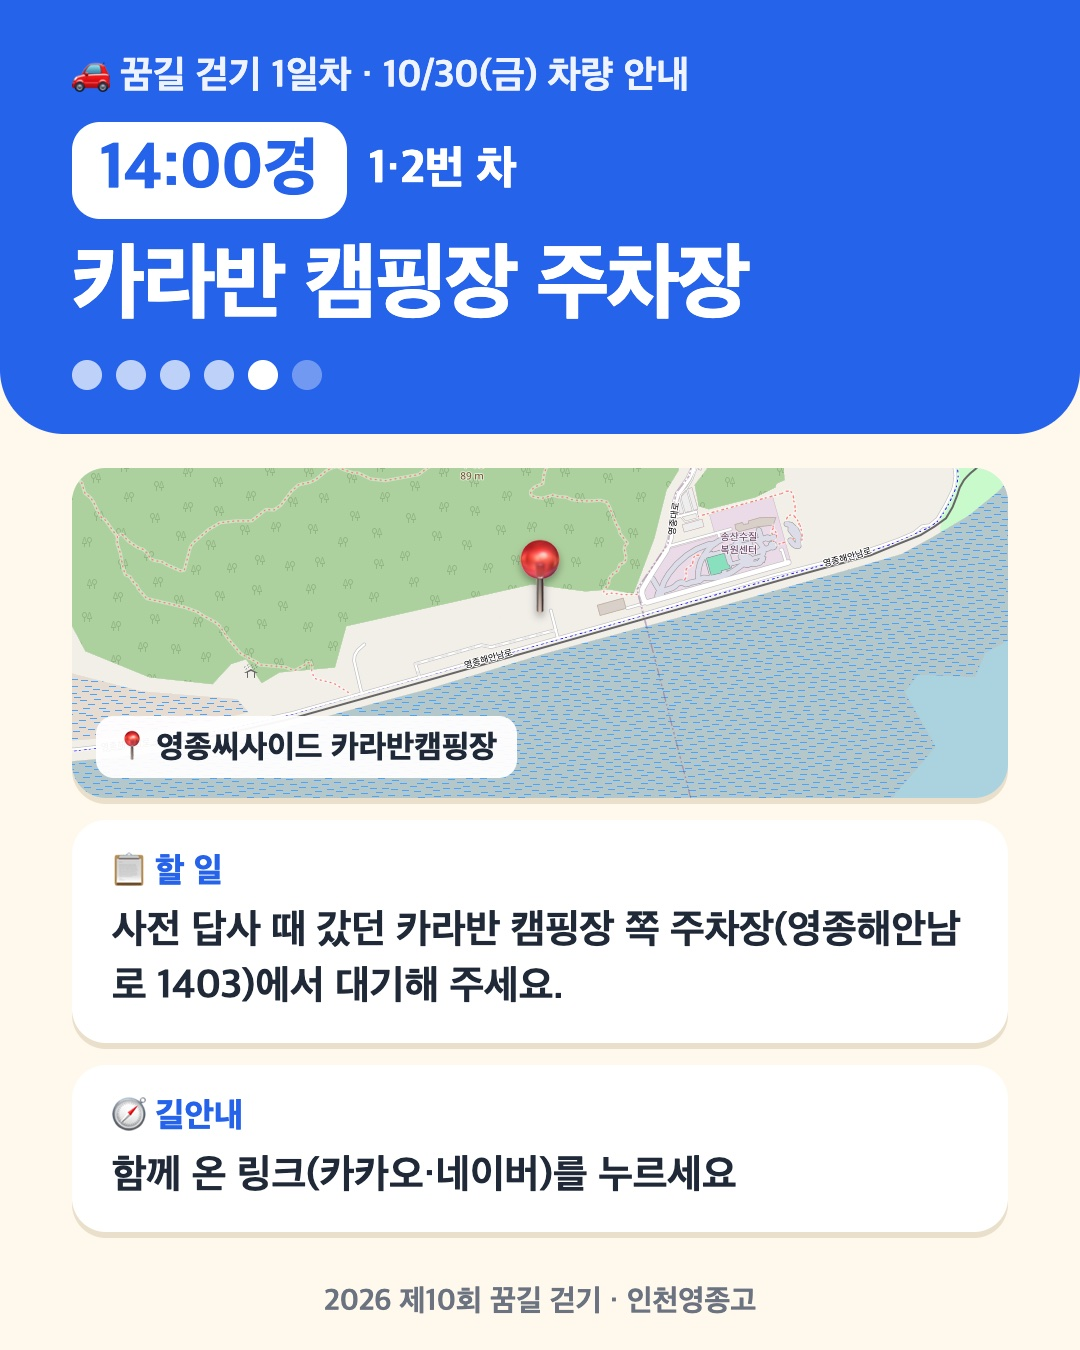
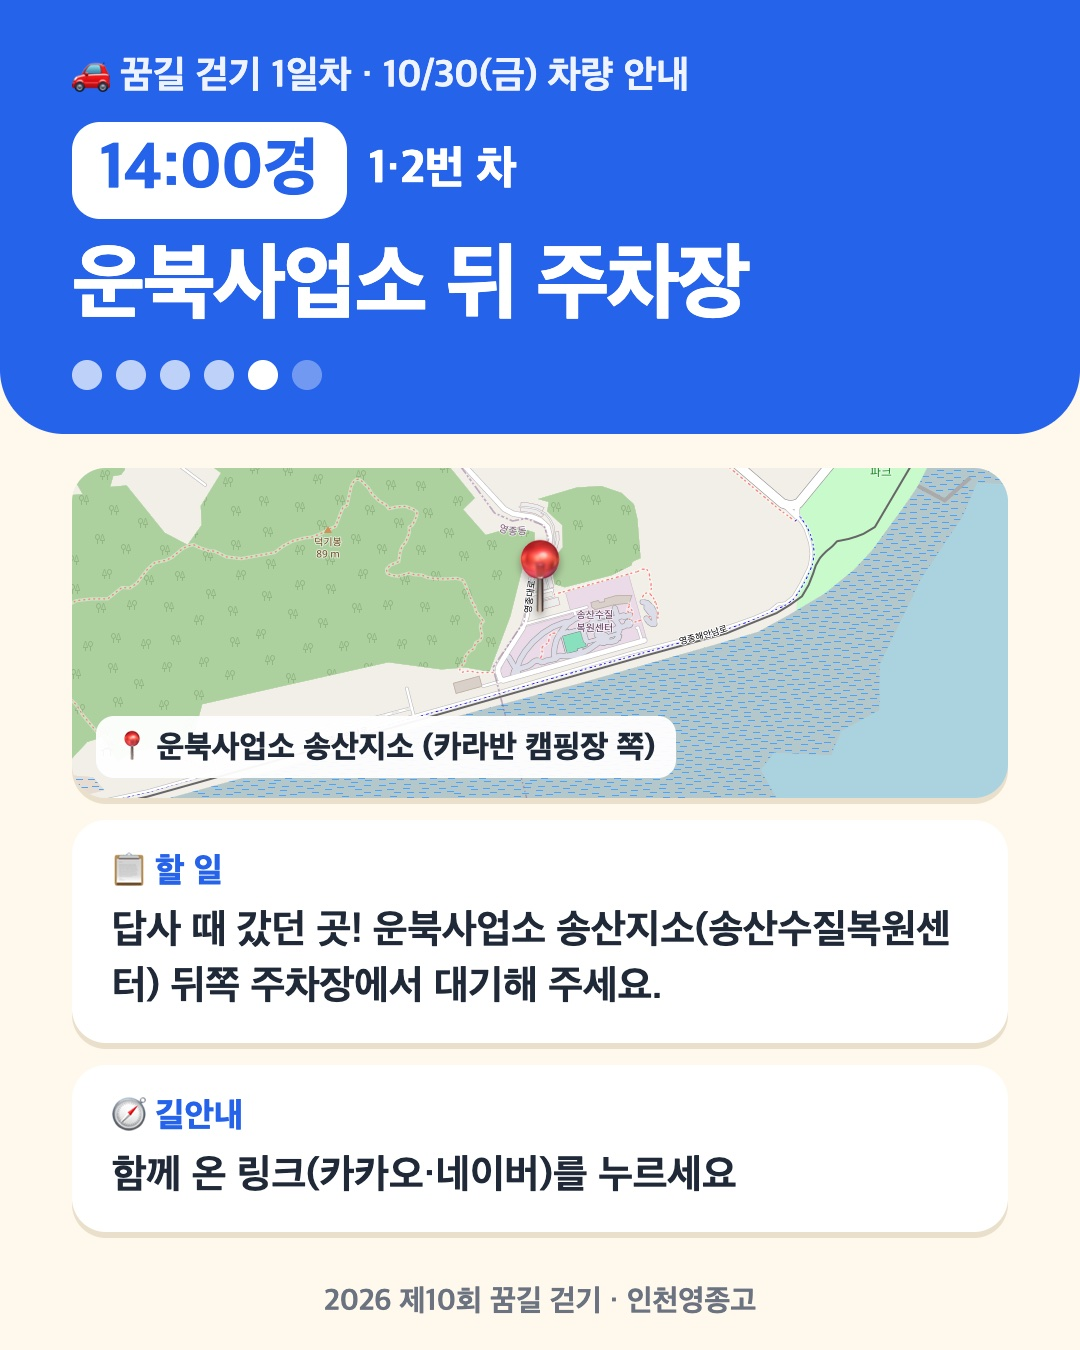
walk: 14시 차량 대기 = 운북사업소 송산지소 뒤 주차장

diff --git a/walk/car.html b/walk/car.html
@@ -77,8 +77,8 @@ var S=[
   to:{p:'방앗간 한식뷔페',lat:37.48615203,lng:126.56027679}},
  {t:'13:00경',c:'34',n:'하늘광장 대기',p:'씨사이드파크 하늘구름광장',lat:37.48334535,lng:126.56782893,
   d:'점심 식당에서 나와 씨사이드파크로 들어가는 길목이에요. 하늘구름광장 근처에 주차하고 대기해 주세요.'},
- {t:'14:00경',c:'12',n:'씨사이드 카라반 캠핑장 주차장 대기',p:'영종씨사이드 카라반캠핑장',lat:37.47820289,lng:126.55676663,
-  d:'사전 답사 때 갔던 영종씨사이드 카라반 캠핑장 쪽 주차장이에요(영종해안남로 1403). 여기에 주차하고 대기해 주세요.'},
+ {t:'14:00경',c:'12',n:'운북사업소 뒤 주차장 대기 (카라반 캠핑장 쪽)',p:'인천환경공단 운북사업소 송산지소',lat:37.47952995,lng:126.55986788,
+  d:'사전 답사 때 갔던 카라반 캠핑장 쪽, «인천환경공단 운북사업소 송산지소(송산수질복원센터)» 뒤쪽 주차장이에요. 길안내로 사업소까지 와서 뒤쪽 주차장에 주차하고 대기해 주세요.'},
  {t:'15:00경',c:'34',n:'족욕장 대기',p:'씨사이드 해수족욕장',lat:37.47041503,lng:126.51952616,
   d:'족욕장 휴식 뒤 학교까지 마지막 3km를 걸어요. 족욕장 주변에 주차하고 대기해 주세요.'}
 ];

diff --git a/walk/sw.js b/walk/sw.js
@@ -7,7 +7,7 @@
      · 내 파일(코스·사진·화면)  → 저장해 둔 것을 «먼저» 주고, 뒤에서 조용히 갱신
      · 카카오 지도 타일         → 저장하지 않는다(약관·용량). 신호 없으면 지도만 안 보인다
    ══════════════════════════════════════════════════════════════ */
-const V = 'kkumgil-v115';
+const V = 'kkumgil-v116';
 const CORE = ['./', './index.html', './courses.json', './course-day1.json', './course-day2.json',
               './manifest.json', './icon-192.png', './icon-512.png', './stamps.json',
               './hero.jpg', './t-poem.jpg', './t-catch.jpg', './t-shirt-dpw2.jpg',
